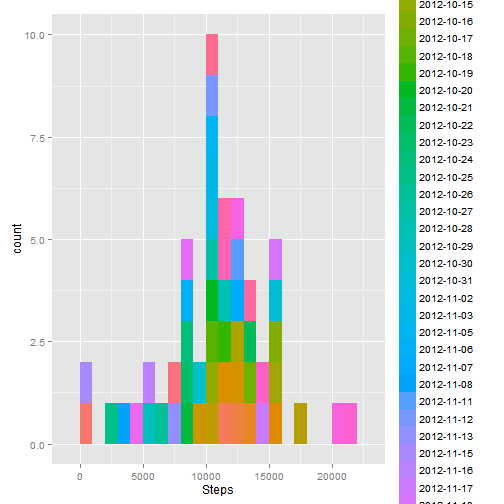
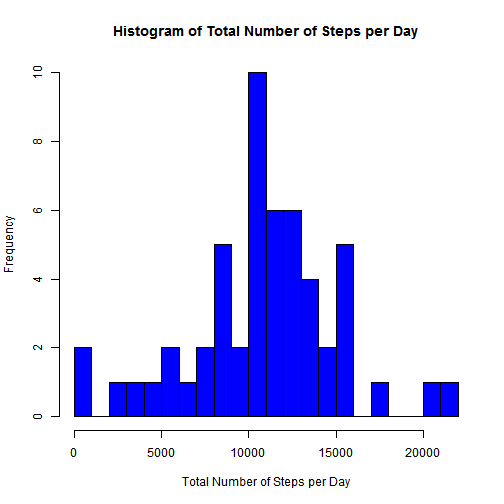
Assignement commit

diff --git a/PA1_template.html b/PA1_template.html
@@ -218,34 +218,36 @@ str(amd)
 
 <pre><code class="r">library(reshape2)
 amdmelt &lt;- melt(amdsteps)
-names(amdmelt) &lt;- c(&quot;date1&quot;, &quot;sum1&quot;)
+names(amdmelt) &lt;- c(&quot;Date&quot;, &quot;SumofSteps&quot;)
 head(amdmelt)
 </code></pre>
 
-<pre><code>##        date1  sum1
-## 1 2012-10-01    NA
-## 2 2012-10-02   126
-## 3 2012-10-03 11352
-## 4 2012-10-04 12116
-## 5 2012-10-05 13294
-## 6 2012-10-06 15420
+<pre><code>##         Date SumofSteps
+## 1 2012-10-01         NA
+## 2 2012-10-02        126
+## 3 2012-10-03      11352
+## 4 2012-10-04      12116
+## 5 2012-10-05      13294
+## 6 2012-10-06      15420
 </code></pre>
 
-<pre><code class="r">library(ggplot2)
-qplot(data = amdmelt, sum1, fill = date1, binwidth = 1000, xlab = &quot;Steps&quot;)
+<pre><code class="r">
+hist(amdmelt$SumofSteps, main = &quot;Histogram of Total Number of Steps per Day&quot;, 
+    xlab = &quot;Total Number of Steps per Day&quot;, ylab = &quot;Frequency&quot;, col = &quot;blue&quot;, 
+    breaks = 30)
 </code></pre>
 
[2 lines of base64/hex data omitted]
 
 <h3>ii) Calculate and report the mean and median total number of steps taken per day</h3>
 
-<pre><code class="r">mean(amdmelt$sum1, na.rm = T)
+<pre><code class="r">mean(amdmelt$SumofSteps, na.rm = T)
 </code></pre>
 
 <pre><code>## [1] 10766
 </code></pre>
 
-<pre><code class="r">median(amdmelt$sum1, na.rm = T)
+<pre><code class="r">median(amdmelt$SumofSteps, na.rm = T)
 </code></pre>
 
 <pre><code>## [1] 10765
@@ -315,37 +317,44 @@ colSums(is.na(amdimpute))
 
 <pre><code class="r">library(reshape2)
 amdmeltimpute &lt;- melt(amdimputesteps)
-names(amdmeltimpute) &lt;- c(&quot;date1&quot;, &quot;sum1&quot;)
+names(amdmeltimpute) &lt;- c(&quot;Date&quot;, &quot;SumofSteps&quot;)
 head(amdmeltimpute)
 </code></pre>
 
-<pre><code>##        date1  sum1
-## 1 2012-10-01 10766
-## 2 2012-10-02   126
-## 3 2012-10-03 11352
-## 4 2012-10-04 12116
-## 5 2012-10-05 13294
-## 6 2012-10-06 15420
+<pre><code>##         Date SumofSteps
+## 1 2012-10-01      10766
+## 2 2012-10-02        126
+## 3 2012-10-03      11352
+## 4 2012-10-04      12116
+## 5 2012-10-05      13294
+## 6 2012-10-06      15420
 </code></pre>
 
-<pre><code class="r">library(ggplot2)
-qplot(data = amdmeltimpute, sum1, fill = date1, binwidth = 1000, xlab = &quot;Steps&quot;)
+<pre><code class="r">hist(amdmeltimpute$SumofSteps, main = &quot;Histogram of Total Number of Steps per Day&quot;, 
+    xlab = &quot;Total Number of Steps per Day&quot;, ylab = &quot;Frequency&quot;, col = &quot;blue&quot;, 
+    breaks = 30)
 </code></pre>
 
[2 lines of base64/hex data omitted]
 
 <h3>ii) Calculate and report the mean and median total number of steps taken per day</h3>
 
 <pre><code class="r">mean(amdmeltimpute$sum1, na.rm = T)
 </code></pre>
 
-<pre><code>## [1] 10766
+<pre><code>## Warning: argument is not numeric or logical: returning NA
+</code></pre>
+
+<pre><code>## [1] NA
 </code></pre>
 
 <pre><code class="r">median(amdmeltimpute$sum1, na.rm = T)
 </code></pre>
 
-<pre><code>## [1] 10766
+<pre><code>## Warning: is.na() applied to non-(list or vector) of type &#39;NULL&#39;
+</code></pre>
+
+<pre><code>## NULL
 </code></pre>
 
 <h4>(Mean = Median) after imputing missing value with mean value of steps. Now it became less skewed.</h4>

diff --git a/PA1_template.md b/PA1_template.md
@@ -46,24 +46,26 @@ amdsteps <- tapply(amd$steps, amd$date, sum)
 ```r
 library(reshape2)
 amdmelt <- melt(amdsteps)
-names(amdmelt) <- c("date1", "sum1")
+names(amdmelt) <- c("Date", "SumofSteps")
 head(amdmelt)
 ```
 
 ```
-##        date1  sum1
-## 1 2012-10-01    NA
-## 2 2012-10-02   126
-## 3 2012-10-03 11352
-## 4 2012-10-04 12116
-## 5 2012-10-05 13294
-## 6 2012-10-06 15420
+##         Date SumofSteps
+## 1 2012-10-01         NA
+## 2 2012-10-02        126
+## 3 2012-10-03      11352
+## 4 2012-10-04      12116
+## 5 2012-10-05      13294
+## 6 2012-10-06      15420
 ```
 
 
 ```r
-library(ggplot2)
-qplot(data = amdmelt, sum1, fill = date1, binwidth = 1000, xlab = "Steps")
+
+hist(amdmelt$SumofSteps, main = "Histogram of Total Number of Steps per Day", 
+    xlab = "Total Number of Steps per Day", ylab = "Frequency", col = "blue", 
+    breaks = 30)
 ```
 
 ![plot of chunk unnamed-chunk-5](figure/unnamed-chunk-5.png) 
@@ -71,7 +73,7 @@ qplot(data = amdmelt, sum1, fill = date1, binwidth = 1000, xlab = "Steps")
 ### ii) Calculate and report the mean and median total number of steps taken per day
 
 ```r
-mean(amdmelt$sum1, na.rm = T)
+mean(amdmelt$SumofSteps, na.rm = T)
 ```
 
 ```
@@ -79,7 +81,7 @@ mean(amdmelt$sum1, na.rm = T)
 ```
 
 ```r
-median(amdmelt$sum1, na.rm = T)
+median(amdmelt$SumofSteps, na.rm = T)
 ```
 
 ```
@@ -171,24 +173,25 @@ amdimputesteps <- tapply(amdimpute$steps, amdimpute$date, sum)
 ```r
 library(reshape2)
 amdmeltimpute <- melt(amdimputesteps)
-names(amdmeltimpute) <- c("date1", "sum1")
+names(amdmeltimpute) <- c("Date", "SumofSteps")
 head(amdmeltimpute)
 ```
 
 ```
-##        date1  sum1
-## 1 2012-10-01 10766
-## 2 2012-10-02   126
-## 3 2012-10-03 11352
-## 4 2012-10-04 12116
-## 5 2012-10-05 13294
-## 6 2012-10-06 15420
+##         Date SumofSteps
+## 1 2012-10-01      10766
+## 2 2012-10-02        126
+## 3 2012-10-03      11352
+## 4 2012-10-04      12116
+## 5 2012-10-05      13294
+## 6 2012-10-06      15420
 ```
 
 
 ```r
-library(ggplot2)
-qplot(data = amdmeltimpute, sum1, fill = date1, binwidth = 1000, xlab = "Steps")
+hist(amdmeltimpute$SumofSteps, main = "Histogram of Total Number of Steps per Day", 
+    xlab = "Total Number of Steps per Day", ylab = "Frequency", col = "blue", 
+    breaks = 30)
 ```
 
 ![plot of chunk unnamed-chunk-14](figure/unnamed-chunk-14.png) 
@@ -200,7 +203,11 @@ mean(amdmeltimpute$sum1, na.rm = T)
 ```
 
 ```
-## [1] 10766
+## Warning: argument is not numeric or logical: returning NA
+```
+
+```
+## [1] NA
 ```
 
 ```r
@@ -208,7 +215,11 @@ median(amdmeltimpute$sum1, na.rm = T)
 ```
 
 ```
-## [1] 10766
+## Warning: is.na() applied to non-(list or vector) of type 'NULL'
+```
+
+```
+## NULL
 ```
 
 #### (Mean = Median) after imputing missing value with mean value of steps. Now it became less skewed. 
